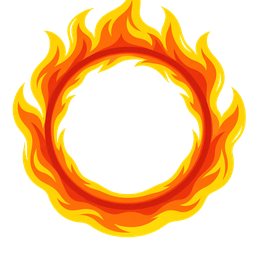
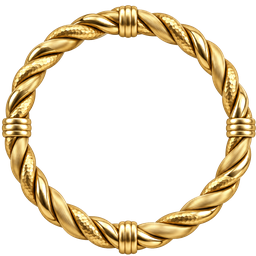
Sole Survivor: gilded rope frame instead of flame
Switch the SS border from the flame ring to an ornate coiled-gold-rope frame
(own asset, keyed off white, recentred). Gold reads on the paper card at any
size where photographic fire washed out. Portrait fills the frame opening (55px
lg / 47px md), grey ring dropped on the SS avatar since the gold frame is now
its border, opacity 1.

diff --git a/frontend/src/index.css b/frontend/src/index.css
@@ -694,18 +694,18 @@ html.locked-night .app-shell .ss-champion::before {
   border: 1.5px solid var(--color-avatar-ring);
 }
 
-/* A distinctive BORDER for the Sole Survivor, not an "on-fire" photo: a bold,
-   flat, complete flame ring (reads as a designed badge on the paper card, where
-   photographic fire washed out). Recentred, keyed off white. Sized so the
-   portrait sits just inside the ring's inner rim with flames radiating out —
-   measured via fit_asset.py (FIT=0.82): 68px behind the 42px (lg) portrait,
-   58px behind the 36px (md). */
+/* A distinctive BORDER for the Sole Survivor: an ornate gilded frame (a coiled
+   gold rope), not fire — gold reads on the paper card at any size, where
+   photographic fire washed out, and "framed in gold" says the-one-who-wins.
+   Recentred, keyed off white. Sized so the portrait fills the frame's opening —
+   measured via fit_asset.py (FIT=0.98): 55px behind the 42px (lg) portrait,
+   47px behind the 36px (md). */
 .sole-survivor-halo {
-  --sole-survivor-halo-size: 58px;
+  --sole-survivor-halo-size: 47px;
   isolation: isolate;
 }
 .sole-survivor-halo--prominent {
-  --sole-survivor-halo-size: 68px;
+  --sole-survivor-halo-size: 55px;
 }
 .sole-survivor-halo::after {
   content: "";
@@ -717,14 +717,15 @@ html.locked-night .app-shell .ss-champion::before {
   height: var(--sole-survivor-halo-size);
   pointer-events: none;
   background: url("/sole-survivor-flame-halo.png") center / contain no-repeat;
-  opacity: 0.9;
+  opacity: 1;
   transform: translate(-50%, -50%);
 }
-/* Keep the portrait above the ring; its neutral grey border stays put so the
-   flame licks off a clean rim even where the ring runs thin. */
+/* Keep the portrait above the frame, and drop its grey ring — the gold frame is
+   the Sole Survivor's border (a grey line inside the gold read as a mismatch). */
 .sole-survivor-halo > .contestant-avatar {
   position: relative;
   z-index: 1;
+  border-color: transparent;
 }
 .sole-survivor-halo--snuffed::after {
   opacity: 0.24;
